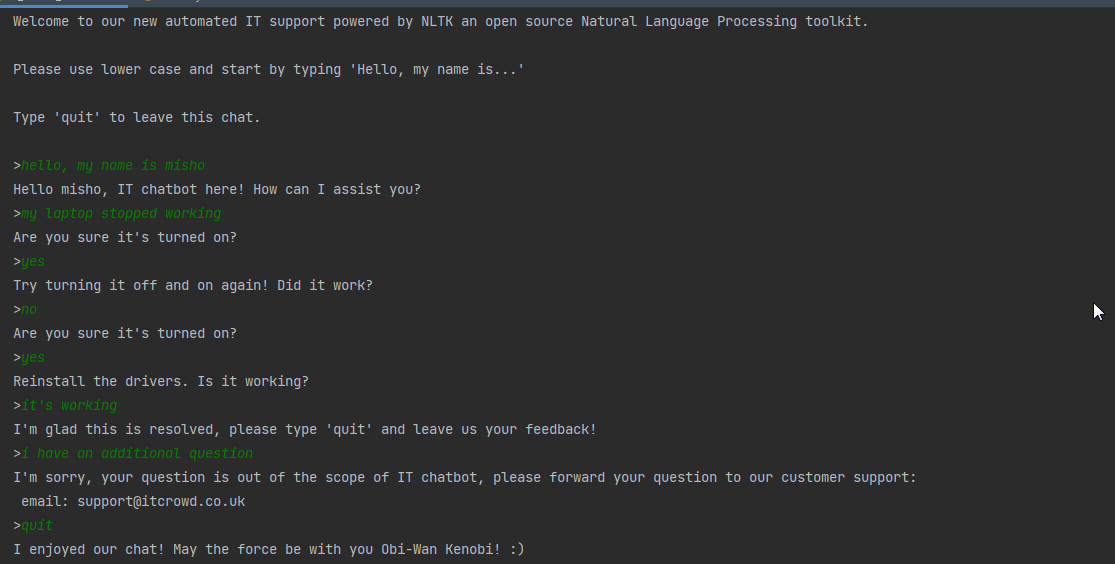
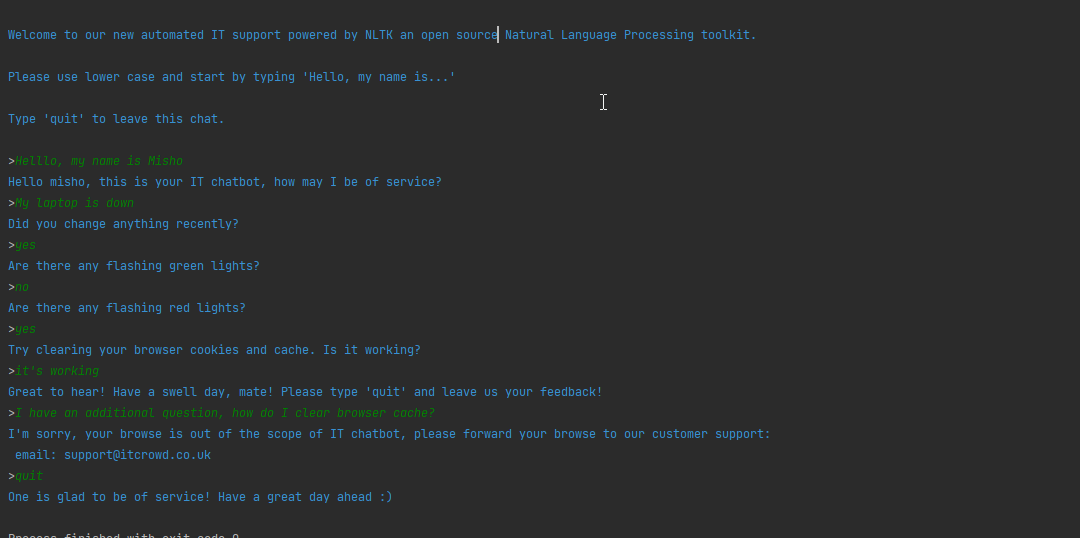
update - coloring

diff --git a/training_projects/it_crowd_chatbot/it_crowd_chatbot.py b/training_projects/it_crowd_chatbot/it_crowd_chatbot.py
@@ -1,67 +1,79 @@
 from nltk.chat.util import Chat, reflections
+from termcolor import colored
 
 pairs = [
     [
         r"(.*)(my name is|I'm|I am|this is|im'|i'm) (.*)",
-        ["Hello %3, IT chatbot here! How can I assist you?",
-         "Hello IT, what is your emergency, %3?",
-         "Hi there %3, this is IT chatbot, what is on your mind?",
-         "Hey, %3, IT chatbot here! What can't wait for a ticket?",
-         "Hello %3, this is your IT chatbot, how may I be of service?",
+        [colored("Hello %3, IT chatbot here! How can I assist you?", "blue"),
+         colored("Hello IT, what is your emergency, %3?", "blue"),
+         colored("Hi there %3, this is IT chatbot, what is on your mind?", "blue"),
+         colored("Hey, %3, IT chatbot here! What can't wait for a ticket?", "blue"),
+         colored("Hello %3, this is your IT chatbot, how may I be of service?", "blue"),
          ]
     ],
     [
         r"(.*)(computer|browser|program|keyboard|mouse|laptop|monitor|printer|phone|tablet)"
         r"(.*)(not working|broke|broken|stopped|crashed|down)(.*)",
-        ["Did you try turning it off and on again?", "Did you change anything recently?",
-         "Are there any flashing lights?", "Are you sure it's turned on?",
-         "Did you try jiggling the cables! Did it work?",
-         "Try turning it off and on again! Did it work?"]
+        [colored("Did you try turning it off and on again?", "blue"),
+         colored("Did you change anything recently?", "blue"),
+         colored("Are there any flashing lights?", "blue"),
+         colored("Are you sure it's turned on?", "blue"),
+         colored("Did you try jiggling the cables! Did it work?", "blue"),
+         colored("Try turning it off and on again! Did it work?", "blue")]
     ],
     [
         r"(.*)(no|No|NO)(.*)",
-        ["Try jiggling the cables! Did it work?", "Try clearing your browser cookies and history."
-         "Try turning it off and on again! Did it work?", "Are you sure it's turned on?",
-         "Put it back as it was! Is it working?", "Are there any flashing red lights?" ]
+        [colored("Try jiggling the cables! Did it work?", "blue"),
+         colored("Try clearing your browser cookies and history.", "blue"),
+         colored("Try turning it off and on again! Did it work?", "blue"),
+         colored("Are you sure it's turned on?", "blue"),
+         colored("Put it back as it was! Is it working?", "blue"),
+         colored("Are there any flashing red lights?", "blue")]
     ],
     [
         r"(.*)(yes|Yes|YES)(.*)",
-        ["Did you try turning it off and on again?", "Put it back as it was! Is it working?",
-         "Are there any flashing green lights?", "Turn it on! Is it working?",
-         "Reinstall the drivers. Is it working?",
-         "Did you try jiggling the cables! Did it work?",
-         "Try clearing your browser cookies and cache. Is it working?",
-         "Try turning it off and on again! Did it work?"]
+        [colored("Did you try turning it off and on again?", "blue"),
+         colored("Put it back as it was! Is it working?", "blue"),
+         colored("Are there any flashing green lights?", "blue"),
+         colored("Turn it on! Is it working?", "blue"),
+         colored("Reinstall the drivers. Is it working?", "blue"),
+         colored("Did you try jiggling the cables! Did it work?", "blue"),
+         colored("Try clearing your browser cookies and cache. Is it working?", "blue"),
+         colored("Try turning it off and on again! Did it work?", "blue")]
     ],
     [
         r"(.*)(works|worked|working|ok|fine|OK|Ok|properly|all good)(.*)",
-        ["I'm glad this is resolved, please type 'quit' and leave us your feedback!",
-         "Great to hear! Have a swell day, mate! Please type 'quit' and leave us your feedback!",
-         "You're welcome mate! Please type 'quit' and leave us your feedback!",
-         "See how easy it was, next time you can do it yourself! Please type 'quit' and leave us your feedback!"]
+        [colored("I'm glad this is resolved, please type 'quit' and leave us your feedback!", "blue"),
+         colored("Great to hear! Have a swell day, mate! Please type 'quit' and leave us your feedback!", "blue"),
+         colored("You're welcome mate! Please type 'quit' and leave us your feedback!", "blue"),
+         colored(
+             "See how easy it was, next time you can do it yourself! Please type 'quit' and leave us your feedback!",
+             "blue")]
     ],
     [
         r"(.*) (question|query|ask|check|browse)(.*)",
-        ["I'm sorry, your %2 is out of the scope of IT chatbot, please forward your %2 to our customer support:\n "
-         "email: support@itcrowd.co.uk"]
+        [colored(
+            "I'm sorry, your %2 is out of the scope of IT chatbot, please forward your %2 to our customer support:\n "
+            "email: support@itcrowd.co.uk", "blue")]
     ],
     [
         r"quit",
-        ["Bye for now. See you soon :)", "It was nice talking to you. See you soon :)",
-         "One is glad to be of service! Have a great day ahead :)",
-         "It was nice chatting with you. May the odds be ever in your favour! :)",
-         "I enjoyed our chat! May the force be with you Obi-Wan Kenobi! :)"]
+        [colored("Bye for now. See you soon :)", "blue"),
+         colored("It was nice talking to you. See you soon :)", "blue"),
+         colored("One is glad to be of service! Have a great day ahead :)", "blue"),
+         colored("It was nice chatting with you. May the odds be ever in your favour! :)", "blue"),
+         colored("I enjoyed our chat! May the force be with you Obi-Wan Kenobi! :)", "blue")]
     ],
     [
         r"(.*)",
-        ["I'm sorry, this is out of the scope of IT chatbot, please log a ticket with our customer support"
-         " and type 'quit' to exit the chat or rephrase your question."]
+        [colored("I'm sorry, this is out of the scope of IT chatbot, please log a ticket with our customer support"
+         " and type 'quit' to exit the chat or rephrase your question.", "blue")]
     ],
 ]
 
 # default message at the start of chat
-print("\nWelcome to our new automated IT support powered by NLTK an open source Natural Language Processing toolkit. ",
-      "\n\nPlease use lower case and start by typing 'Hello, my name is...'\n\nType 'quit' to leave this chat.\n")
+print(colored("\nWelcome to our new automated IT support powered by NLTK an open source Natural Language Processing toolkit. "
+      "\n\nPlease use lower case and start by typing 'Hello, my name is...'\n\nType 'quit' to leave this chat.\n", "blue"))
 
 # Create Chat Bot
 chat = Chat(pairs, reflections)
